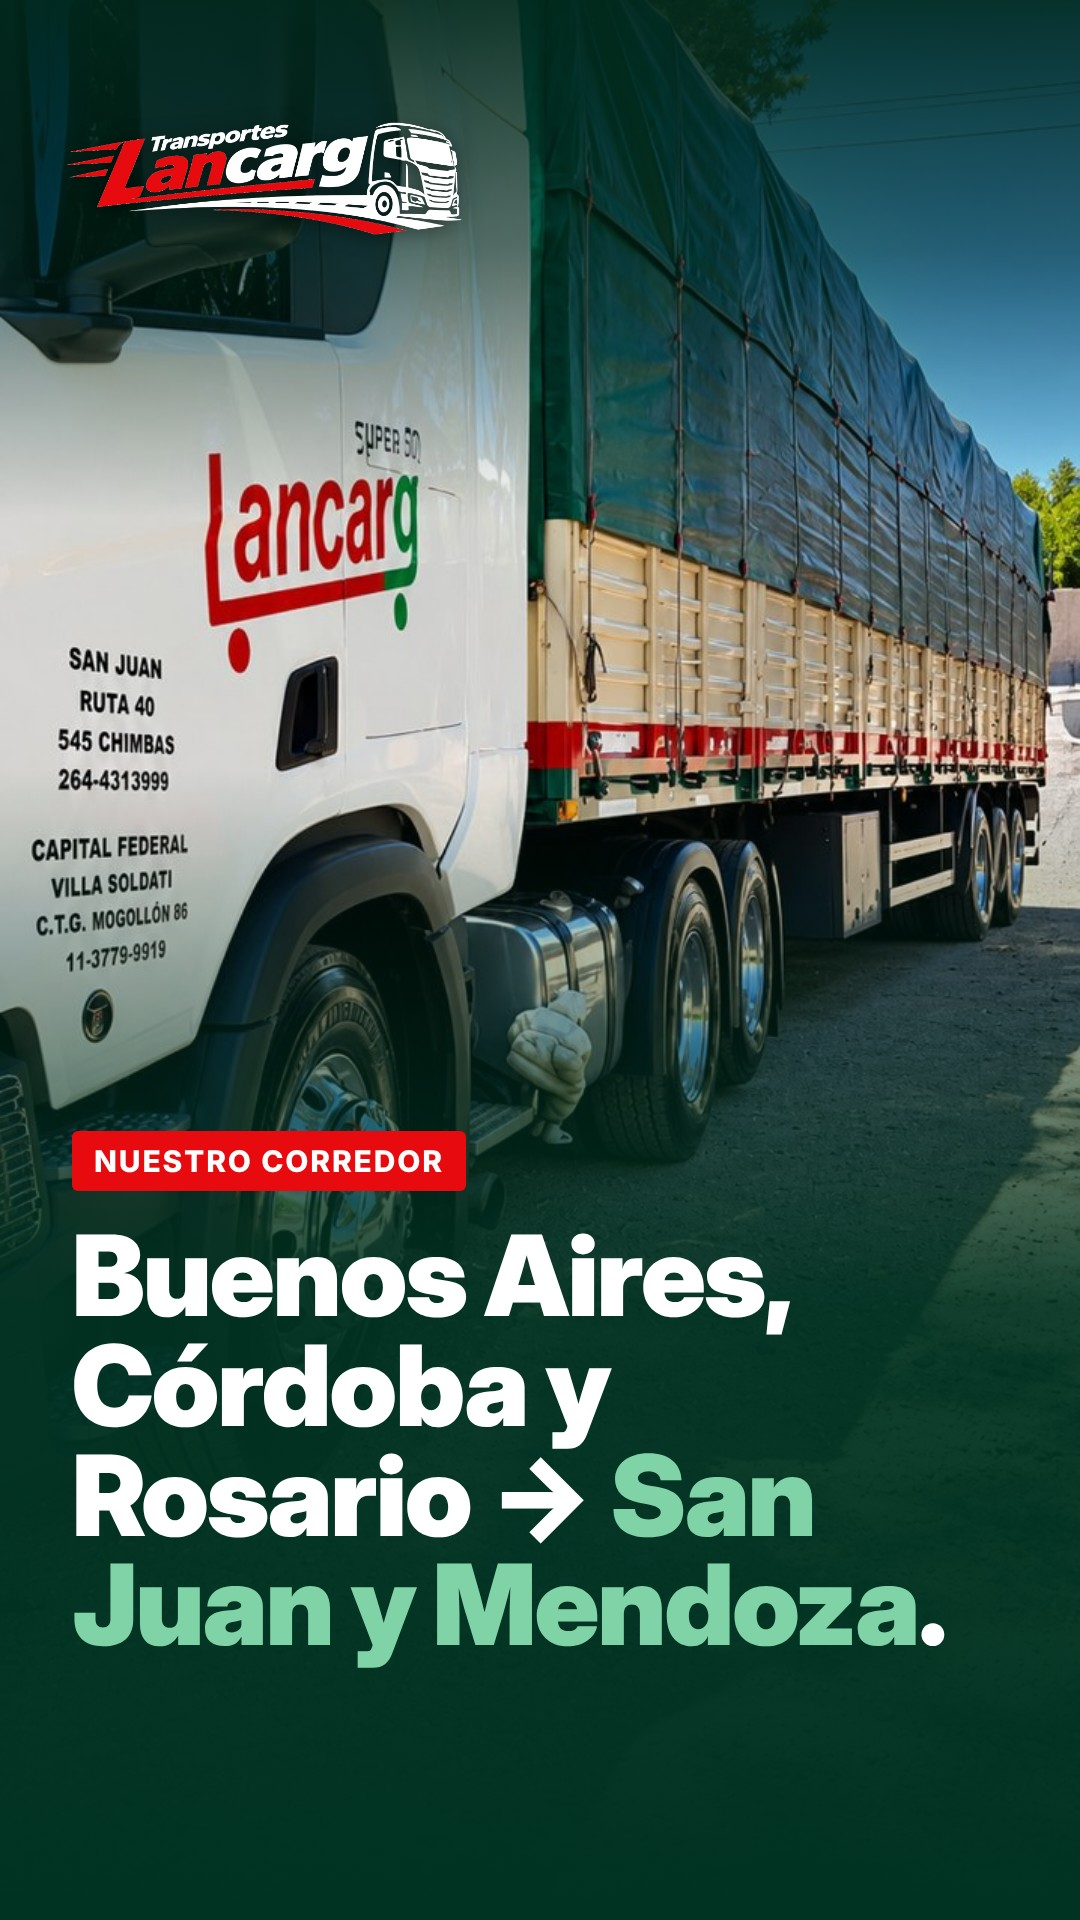
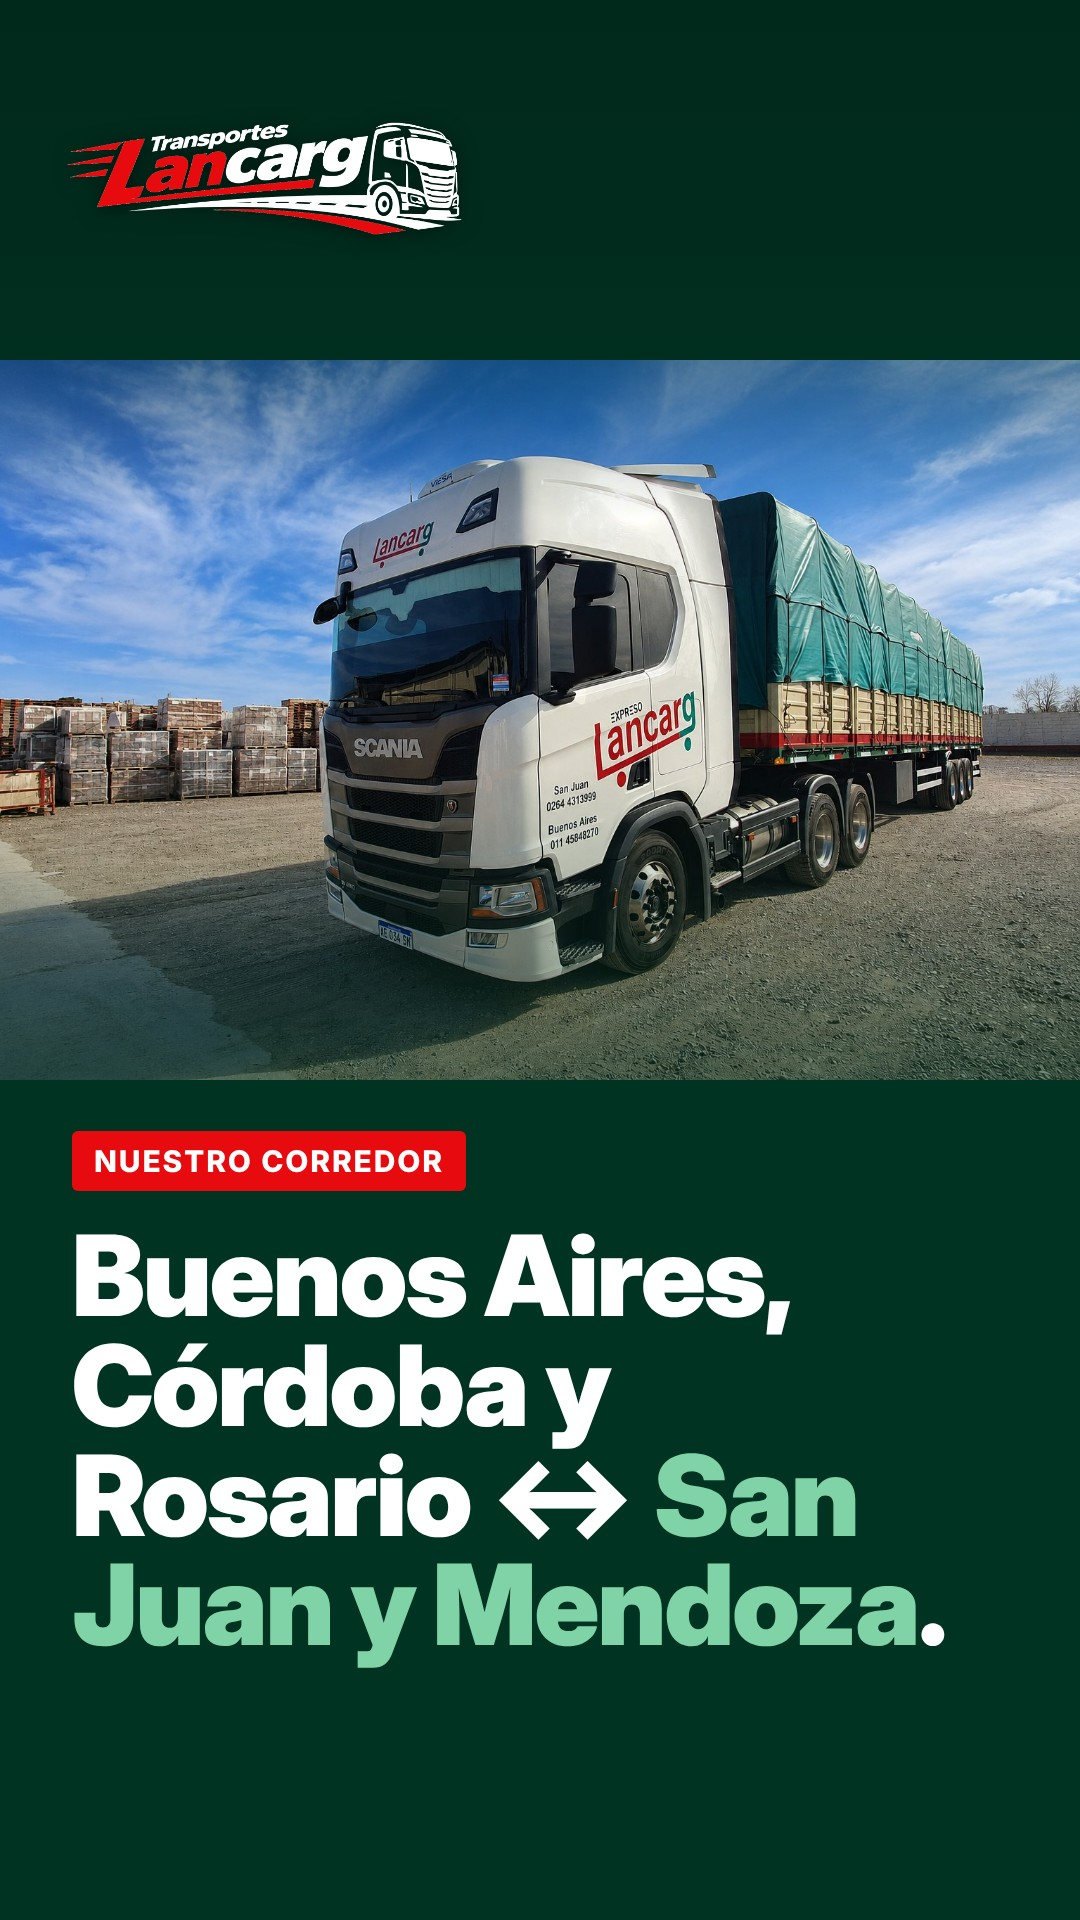
Flechas en ambos sentidos y camión con el frente visible
Claude-Session: https://claude.ai/code/session_01VCQyoaPqoNphJ14syEH6Au

diff --git a/publicaciones/2026-10-20-historias/diseno.html b/publicaciones/2026-10-20-historias/diseno.html
@@ -34,4 +34,4 @@ h2{font-family:"Inter Display",Inter;font-weight:900;font-size:76px;line-height:
 .card .p{font-size:36px;font-weight:700;margin-top:10px;display:flex;align-items:center;gap:12px}
 .mr{display:flex;gap:30px;align-items:flex-start}
 .mito{font-size:44px;font-weight:800;color:#ffb3b5}
-</style></head><body><div class="slide story"><img class="bg" src="../../fotos/camion-scania-al-atardecer-entre-montanas.jpg" style="object-position:50% 40%"><div class="shade "></div><img class="logo" src="../../marca/logo-lancarg-sobre-verde.png"><div class="txt "><div class="kicker">Buenos Aires → San Juan</div><h1>Camiones <em>todos</em> los días.</h1><div class="sub">Tu mercadería no espera.</div></div></div><div class="slide story"><img class="bg" src="../../fotos/caja-de-carton-con-logo-de-transporte-lancarg.jpg" style="object-position:50% 45%;object-fit:contain;object-position:50% 30%"><div class="shade "></div><img class="logo" src="../../marca/logo-lancarg-sobre-verde.png"><div class="txt "><h1>¿Tenés que traer <em>algo</em>?</h1><div class="sub">Nosotros nos encargamos. Cotizá por WhatsApp.</div><div class="pill"><svg width="48" height="48" viewBox="0 0 24 24" fill="#25D366"><path d="M12 2a10 10 0 0 0-8.6 15.1L2 22l5-1.3A10 10 0 1 0 12 2zm5.3 14.1c-.2.6-1.3 1.2-1.8 1.2-.5.1-1 .2-3.3-.7-2.8-1.1-4.5-4-4.7-4.2-.1-.2-1.1-1.5-1.1-2.9s.7-2 1-2.3c.2-.3.5-.3.7-.3h.5c.2 0 .4 0 .6.5l.8 2c.1.2.1.4 0 .5l-.3.5-.4.4c-.1.1-.3.3-.1.6.2.3.8 1.3 1.7 2.1 1.2 1 2.1 1.4 2.4 1.5.3.1.5.1.6-.1l.9-1c.2-.3.4-.2.6-.1l1.9.9c.3.1.5.2.5.3.1.2.1.7-.1 1.4z"/></svg>264 454-3612</div></div></div></body></html>
+</style></head><body><div class="slide story"><img class="bg" src="../../fotos/camion-scania-al-atardecer-entre-montanas.jpg" style="object-position:50% 40%"><div class="shade "></div><img class="logo" src="../../marca/logo-lancarg-sobre-verde.png"><div class="txt "><div class="kicker">Buenos Aires ↔ San Juan</div><h1>Camiones <em>todos</em> los días.</h1><div class="sub">Tu mercadería no espera.</div></div></div><div class="slide story"><img class="bg" src="../../fotos/caja-de-carton-con-logo-de-transporte-lancarg.jpg" style="object-position:50% 45%;object-fit:contain;object-position:50% 30%"><div class="shade "></div><img class="logo" src="../../marca/logo-lancarg-sobre-verde.png"><div class="txt "><h1>¿Tenés que traer <em>algo</em>?</h1><div class="sub">Nosotros nos encargamos. Cotizá por WhatsApp.</div><div class="pill"><svg width="48" height="48" viewBox="0 0 24 24" fill="#25D366"><path d="M12 2a10 10 0 0 0-8.6 15.1L2 22l5-1.3A10 10 0 1 0 12 2zm5.3 14.1c-.2.6-1.3 1.2-1.8 1.2-.5.1-1 .2-3.3-.7-2.8-1.1-4.5-4-4.7-4.2-.1-.2-1.1-1.5-1.1-2.9s.7-2 1-2.3c.2-.3.5-.3.7-.3h.5c.2 0 .4 0 .6.5l.8 2c.1.2.1.4 0 .5l-.3.5-.4.4c-.1.1-.3.3-.1.6.2.3.8 1.3 1.7 2.1 1.2 1 2.1 1.4 2.4 1.5.3.1.5.1.6-.1l.9-1c.2-.3.4-.2.6-.1l1.9.9c.3.1.5.2.5.3.1.2.1.7-.1 1.4z"/></svg>264 454-3612</div></div></div></body></html>

diff --git a/publicaciones/2026-10-24-historias/diseno.html b/publicaciones/2026-10-24-historias/diseno.html
@@ -34,4 +34,4 @@ h2{font-family:"Inter Display",Inter;font-weight:900;font-size:76px;line-height:
 .card .p{font-size:36px;font-weight:700;margin-top:10px;display:flex;align-items:center;gap:12px}
 .mr{display:flex;gap:30px;align-items:flex-start}
 .mito{font-size:44px;font-weight:800;color:#ffb3b5}
-</style></head><body><div class="slide story"><img class="bg" src="../../fotos/muestrario-de-cajas-con-el-logo-transportes-lancarg.jpg" style="object-position:50% 50%;object-fit:contain;object-position:50% 30%"><div class="shade "></div><img class="logo" src="../../marca/logo-lancarg-sobre-verde.png"><div class="txt "><div class="kicker">Tip de envío</div><h2>Cómo embalar bien tu paquete</h2><div class="list"><div class="li"><span class="dot">1</span>Embalaje firme, sin huecos adentro</div><div class="li"><span class="dot">2</span>Cinta en forma de H</div><div class="li"><span class="dot">3</span>Datos de destino bien visibles</div></div></div></div><div class="slide story"><img class="bg" src="../../fotos/camiondecostadocerca.jpg" style="object-position:50% 50%"><div class="shade "></div><img class="logo" src="../../marca/logo-lancarg-sobre-verde.png"><div class="txt "><div class="kicker">Nuestro corredor</div><h1>Buenos Aires, Córdoba y Rosario → <em>San Juan y Mendoza</em>.</h1></div></div></body></html>
+</style></head><body><div class="slide story"><img class="bg" src="../../fotos/muestrario-de-cajas-con-el-logo-transportes-lancarg.jpg" style="object-position:50% 50%;object-fit:contain;object-position:50% 30%"><div class="shade "></div><img class="logo" src="../../marca/logo-lancarg-sobre-verde.png"><div class="txt "><div class="kicker">Tip de envío</div><h2>Cómo embalar bien tu paquete</h2><div class="list"><div class="li"><span class="dot">1</span>Embalaje firme, sin huecos adentro</div><div class="li"><span class="dot">2</span>Cinta en forma de H</div><div class="li"><span class="dot">3</span>Datos de destino bien visibles</div></div></div></div><div class="slide story"><img class="bg" src="../../fotos/camion-con-semi-de-frete-derecho.jpg" style="object-position:50% 50%;object-fit:contain;object-position:50% 30%"><div class="shade "></div><img class="logo" src="../../marca/logo-lancarg-sobre-verde.png"><div class="txt "><div class="kicker">Nuestro corredor</div><h1>Buenos Aires, Córdoba y Rosario ↔ <em>San Juan y Mendoza</em>.</h1></div></div></body></html>

diff --git a/publicaciones/2026-10-21-carrusel-traer-cajas/diseno.html b/publicaciones/2026-10-21-carrusel-traer-cajas/diseno.html
@@ -47,7 +47,7 @@ h1 em{font-style:normal;color:#7fd3a6}
   <div class="shade"></div>
   <img class="logo" src="../../marca/logo-lancarg-sobre-verde.png">
   <div class="txt">
-    <div class="kicker">Buenos Aires → San Juan</div>
+    <div class="kicker">Buenos Aires ↔ San Juan</div>
     <h1>¿Tenés que traer <em>algo?</em></h1>
     <div class="sub"><span class="arrow">→</span>Nosotros nos encargamos.</div>
   </div>

diff --git a/plantillas/generar_semana_2026-10-20.py b/plantillas/generar_semana_2026-10-20.py
@@ -81,7 +81,7 @@ def write(folder, slides):
 # ---------- HISTORIAS (2 por día) ----------
 H = {
  "2026-10-20-historias": [
-   story("camion-scania-al-atardecer-entre-montanas", '<div class="kicker">Buenos Aires → San Juan</div><h1>Camiones <em>todos</em> los días.</h1><div class="sub">Tu mercadería no espera.</div>', "50% 40%"),
+   story("camion-scania-al-atardecer-entre-montanas", '<div class="kicker">Buenos Aires ↔ San Juan</div><h1>Camiones <em>todos</em> los días.</h1><div class="sub">Tu mercadería no espera.</div>', "50% 40%"),
    story("caja-de-carton-con-logo-de-transporte-lancarg", '<h1>¿Tenés que traer <em>algo</em>?</h1><div class="sub">Nosotros nos encargamos. Cotizá por WhatsApp.</div>' + WAPILL, "50% 45%"),
  ],
  "2026-10-21-historias": [
@@ -98,7 +98,7 @@ H = {
  ],
  "2026-10-24-historias": [
    story("muestrario-de-cajas-con-el-logo-transportes-lancarg", '<div class="kicker">Tip de envío</div><h2>Cómo embalar bien tu paquete</h2><div class="list"><div class="li"><span class="dot">1</span>Embalaje firme, sin huecos adentro</div><div class="li"><span class="dot">2</span>Cinta en forma de H</div><div class="li"><span class="dot">3</span>Datos de destino bien visibles</div></div>', "50% 50%"),
-   story("camiondecostadocerca", '<div class="kicker">Nuestro corredor</div><h1>Buenos Aires, Córdoba y Rosario → <em>San Juan y Mendoza</em>.</h1>', "50% 50%"),
+   story("camion-con-semi-de-frete-derecho", '<div class="kicker">Nuestro corredor</div><h1>Buenos Aires, Córdoba y Rosario ↔ <em>San Juan y Mendoza</em>.</h1>', "50% 50%"),
  ],
  "2026-10-25-historias": [
    story("camion-scania-lancarg-bajo-cielo-azul", '<h1>Feliz domingo.</h1><div class="sub">Mañana arrancamos otra semana de envíos.</div>', "50% 40%"),
